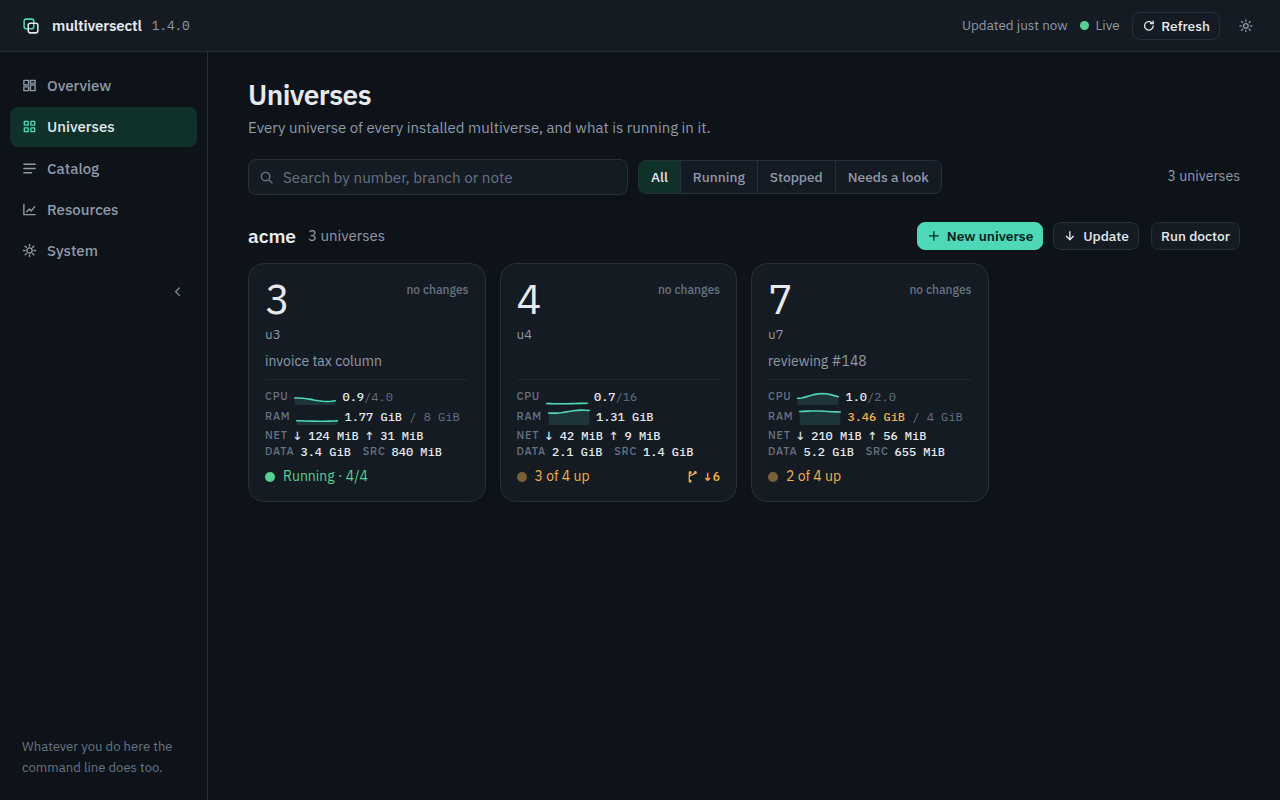
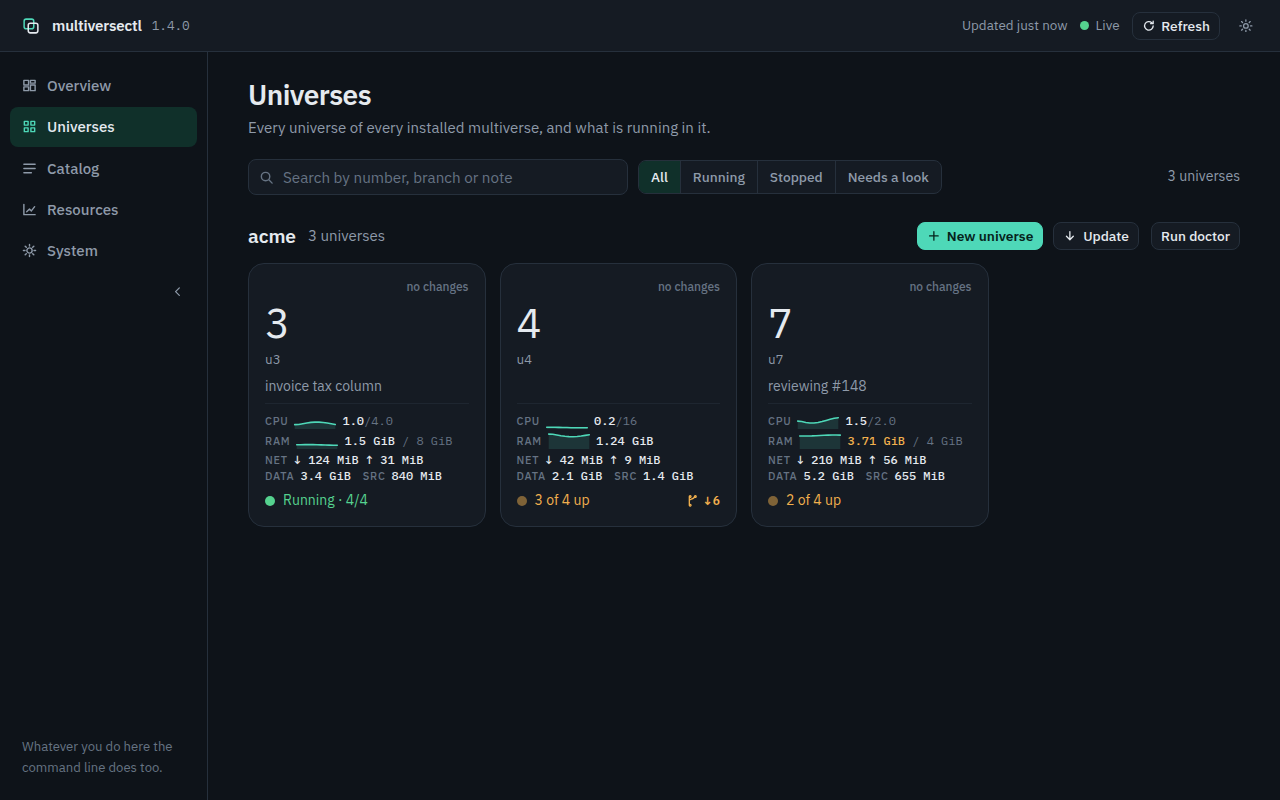
chore: give the fleet card title its own full-width row (#117)
The worktree status ("no changes" / "N changed") moves to a minimal row of its
own above the title, so the universe name gets the card's full width and a long
word-name (fix/ficherod-mailer) reads on one line instead of wrapping beside the
status. Screenshots refreshed to match.

diff --git a/web/src/app/features/fleet/universe-card.ts b/web/src/app/features/fleet/universe-card.ts
@@ -19,14 +19,14 @@ import { dirtyCheckouts, expectedOf, runState } from './universe-state';
   changeDetection: ChangeDetectionStrategy.OnPush,
   template: `
     <a class="tile" [class.stopped]="state() === 'stopped'" [routerLink]="link()">
-      <span class="head">
-        <span class="num" [class.word]="!isNumber()" [attr.title]="isNumber() ? null : universe().name">{{ universe().name }}</span>
+      <span class="wtrow">
         @if (edited()) {
           <span class="wt dirty" [attr.title]="'uncommitted changes in ' + dirty().join(', ')">{{ dirty().length }} changed</span>
         } @else {
           <span class="wt">no changes</span>
         }
       </span>
+      <span class="num" [class.word]="!isNumber()" [attr.title]="isNumber() ? null : universe().name">{{ universe().name }}</span>
       @if (where()) { <span class="where mono" [attr.title]="where()">{{ where() }}</span> }
       @if (universe().note) { <span class="note">{{ universe().note }}</span> }
       <span class="foot">
@@ -79,8 +79,8 @@ import { dirtyCheckouts, expectedOf, runState } from './universe-state';
     .run { display: flex; align-items: center; gap: 8px; font-size: var(--fs-sm); color: var(--muted) }
     .run.ok { color: var(--ok) } .run.warn { color: var(--warn) }
     .dot { width: 10px; height: 10px; flex: none }
-    .head { display: flex; align-items: flex-start; justify-content: space-between; gap: 10px }
-    .wt { flex: none; margin-top: 3px; font-size: var(--fs-2xs); font-weight: 500; color: var(--faint); white-space: nowrap }
+    .wtrow { display: flex; justify-content: flex-end; min-height: 1em }
+    .wt { font-size: var(--fs-2xs); font-weight: 500; color: var(--faint); white-space: nowrap }
     .wt.dirty { color: var(--warn) }
     .num { min-width: 0; font: 300 var(--fs-hero)/1 var(--sans); letter-spacing: -.045em; font-variant-numeric: tabular-nums; overflow-wrap: anywhere }
     .num.word { font: 600 var(--fs-xl)/1.2 var(--sans); letter-spacing: -.015em; display: -webkit-box; -webkit-line-clamp: 2; line-clamp: 2; -webkit-box-orient: vertical; overflow: hidden }
